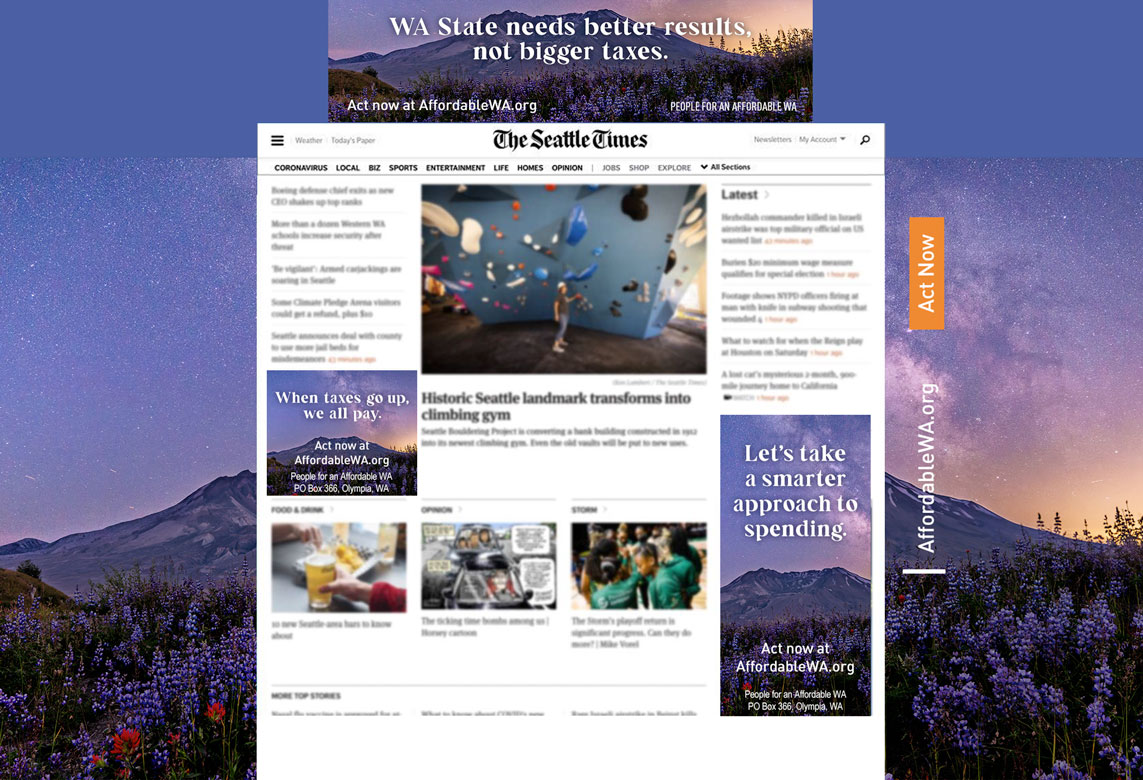
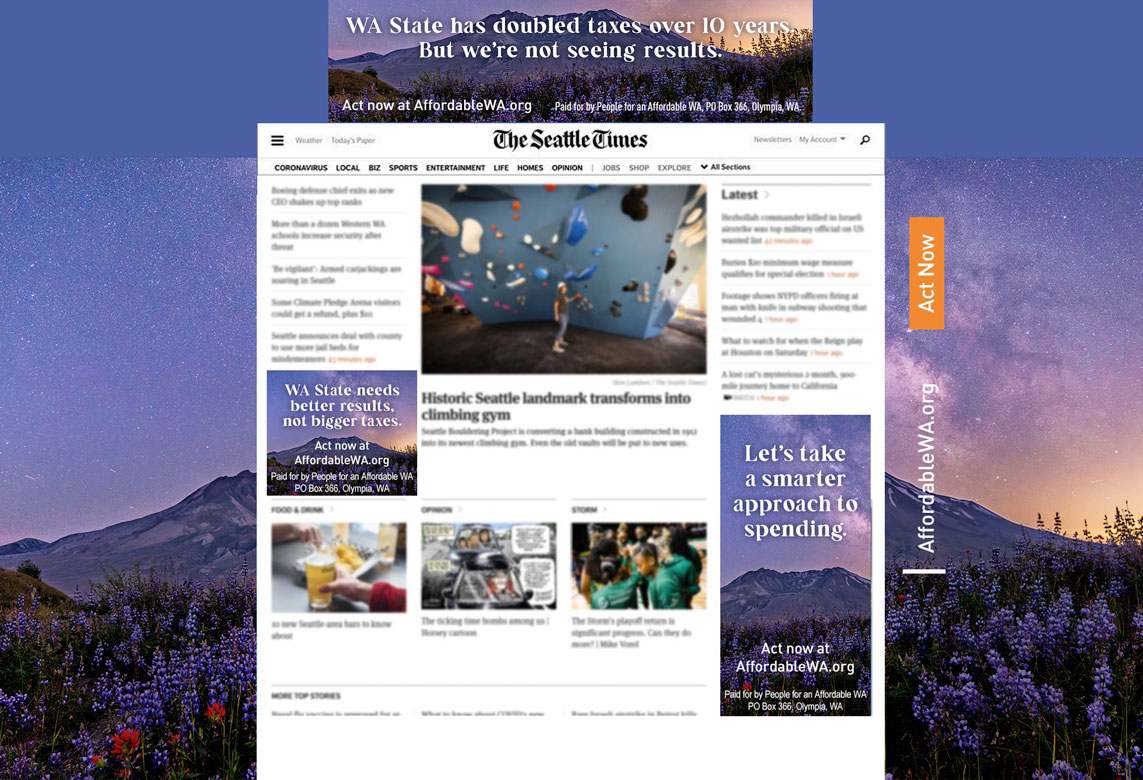
Add files via upload

diff --git a/r2/HPTO/hpto.html b/r2/HPTO/hpto.html
@@ -62,7 +62,8 @@ includeHTML();
 </script>
 
 
-<hr />
+<hr />  <p> &nbsp; </p>
+
 <p><font face="Arial, Helvetica, sans-serif" color="#FFFFFF">Seattle Times - Section and Homepage Takeover - HEADERS<br />1200x250 | 970x250 | 728x90 | 320x106 | 320x50</font></p>
 
 <div>	
@@ -71,10 +72,15 @@ includeHTML();
 
 
 <p></p>
-<hr />
+<hr /> <p> &nbsp; </p>
 	
-<p><font face="Arial, Helvetica, sans-serif" color="#FFFFFF">Seattle Times - Homepage Takeover - WALLPAPER + HEADERS + STATIC DISPLAY <br /><em>shown at 50% actual size</em></font></p>
-<img src="SeaTimes-HPTO+Wallpaper-mock.jpg" width="1143" height="780" alt=""/> </div>
+<p><font face="Arial, Helvetica, sans-serif" color="#FFFFFF">Seattle Times - Homepage Takeover - WALLPAPER + HEADERS + STATIC DISPLAY - <strong>version 1</strong> <br /><em>shown at 50% actual size</em></font></p>
+<img src="SeaTimes-HPTO+Wallpaper-mock.jpg" width="1143" height="780" alt=""/> 
+<hr /> <p> &nbsp; </p>
+<p><font face="Arial, Helvetica, sans-serif" color="#FFFFFF">Seattle Times - Homepage Takeover - WALLPAPER + HEADERS + STATIC DISPLAY - <strong>version 2</strong> <br /><em>shown at 50% actual size</em></font></p>
+<img src="SeaTimes-HPTO+Wallpaper-mock-v2.jpg" width="1143" height="780" alt=""/> 
+	
+</div>
 	
 </body>
 </html>
